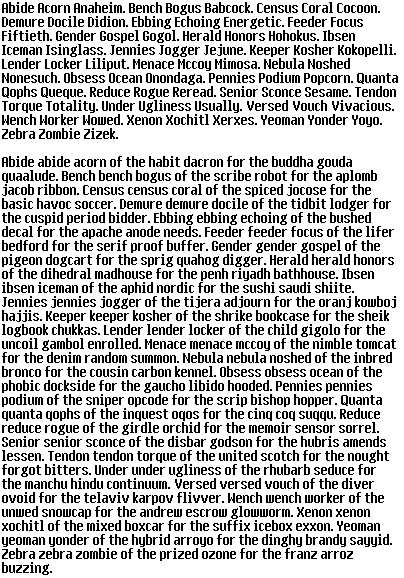
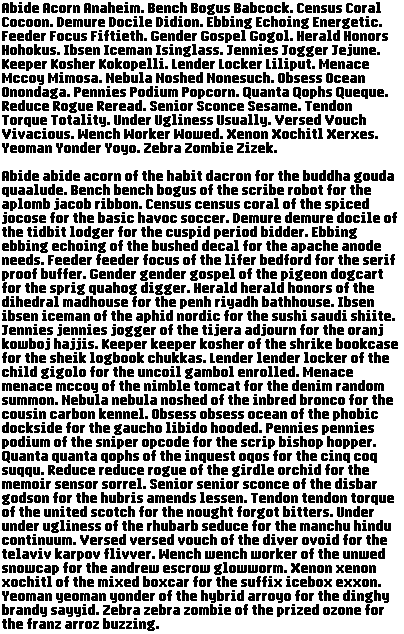
add bold variant

diff --git a/README.md b/README.md
@@ -1,5 +1,9 @@
 `cuniform` is a bitmap font designed for the Playdate console. It is based on [GNU Unifont](https://unifoundry.com/unifont/index.html) and uses the same license, and created with the [Caps tool](https://play.date/caps/) by Panic.
 
+`cuniform`
+
+![cuniform font demo](demo.png)
+
 `cuniform-heavy`
 
 ![cuniform heavy font demo](heavy-demo.png)
